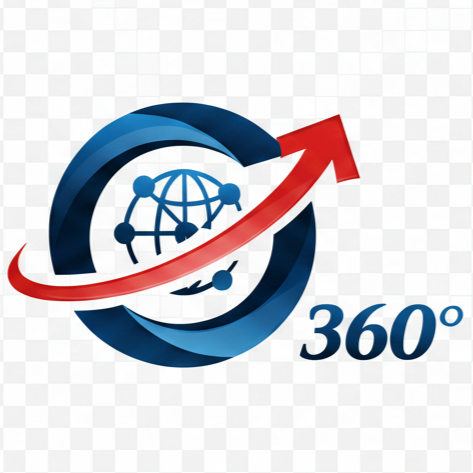
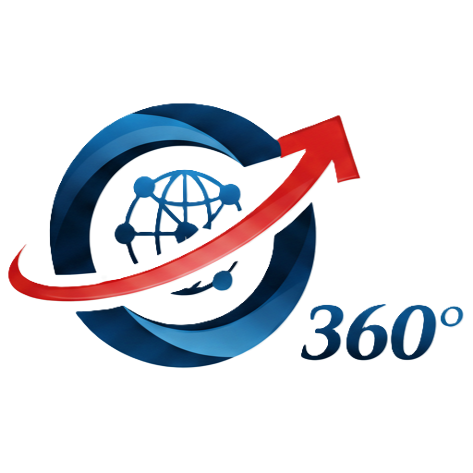
peux tu retirer le titre de l'application de l'entete et agrandir le log

diff --git a/src/components/app/header.tsx b/src/components/app/header.tsx
@@ -74,8 +74,7 @@ export function AppHeader() {
       <div className="container flex h-14 items-center justify-between">
         <div className="mr-4 hidden items-center md:flex">
           <Link href="/" className="flex items-center">
-             <Image src={Logo} alt="ID-360 Logo" width={32} height={32} className="mr-3"/>
-            <span className="font-bold text-lg text-primary">ID-pilote</span>
+             <Image src={Logo} alt="ID-360 Logo" width={96} height={96} className="mr-3"/>
           </Link>
         </div>
         <div className="flex-1 flex justify-end items-center gap-2">

diff --git a/src/components/app/sidebar-nav.tsx b/src/components/app/sidebar-nav.tsx
@@ -107,8 +107,7 @@ export function SidebarNav() {
     <Sidebar collapsible="icon" variant="sidebar" side="left" className="h-screen sticky top-0">
        <SidebarHeader>
           <Link href="/" className="flex items-center gap-2 px-2">
-            <Image src={Logo} alt="ID-360 Logo" width={32} height={32} />
-            <span className="font-bold text-lg text-sidebar-foreground">ID-pilote</span>
+            <Image src={Logo} alt="ID-360 Logo" width={96} height={96} />
           </Link>
       </SidebarHeader>
       <SidebarContent>
